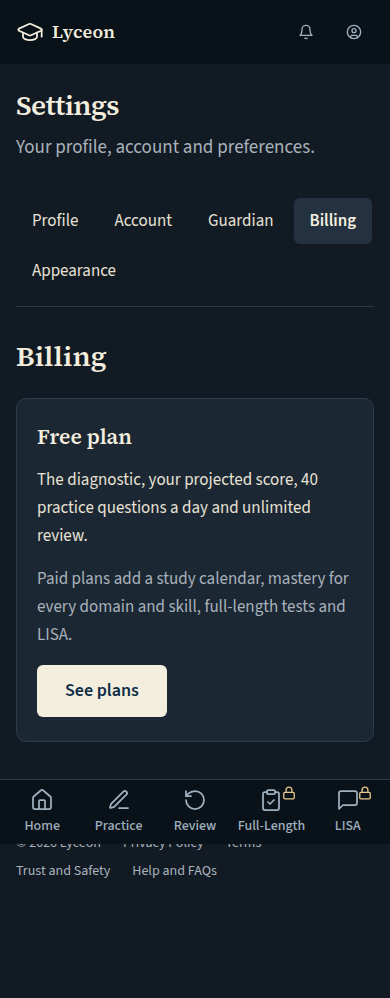
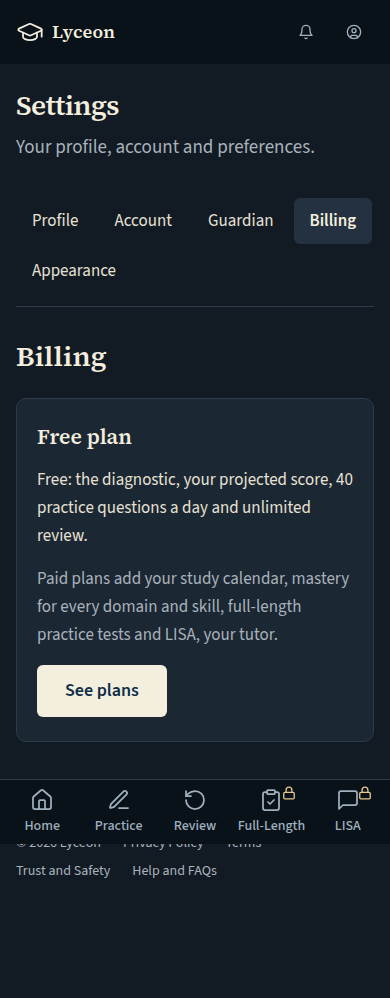
UI-58 / OQ-61 (e): re-capture UI-58 (Billing free box in the approved wording)
settings-billing-free (desktop/390, light/dark) now shows the Help FAQ
sentences; 0px horizontal overflow on all 56 captures. The guardian-section
shots differ only by the harness's freshly minted link code.

Claude-Session: https://claude.ai/code/session_01DzryTvDS5m7fLVPUjsQYgR

Changed region(s): [[0.0923, 0.5591, 0.8923, 0.6523], [0.0923, 0.4659, 0.9231, 0.497]]

diff --git a/docs/plans/student-ui/evidence/wave5/UI-58/index.md b/docs/plans/student-ui/evidence/wave5/UI-58/index.md
@@ -1,6 +1,6 @@
 # UI-58 Settings (each section; paid self-billing, free, guardian-managed), Help, Notifications and the plans page (both NOT PROTOTYPED); light and dark, 1440 and 390
 
-Generated 2026-10-05T06:48:56.015Z by `pnpm exec tsx tests/e2e/student-harness/capture.ts UI-58` (see `tests/e2e/student-harness/README.md`). Built = a production build of the real client (`vite preview`, or the dev server with STUDENT_HARNESS_CLIENT=dev) against the student harness (real routers over a local Postgres built from this repo's migrations; personas seeded through the real practice routes). Prototype = the signed-off `docs/plans/student-ui/design/prototype/*.dc.html`, rendered locally.
+Generated 2026-10-05T09:38:51.803Z by `pnpm exec tsx tests/e2e/student-harness/capture.ts UI-58` (see `tests/e2e/student-harness/README.md`). Built = a production build of the real client (`vite preview`, or the dev server with STUDENT_HARNESS_CLIENT=dev) against the student harness (real routers over a local Postgres built from this repo's migrations; personas seeded through the real practice routes). Prototype = the signed-off `docs/plans/student-ui/design/prototype/*.dc.html`, rendered locally.
 
 Conditions, read before comparing:
 - Viewport screenshots (not full page) unless the shot says full page: desktop 1440x900, phone 390x844.
@@ -56,7 +56,7 @@ Prototype: `Settings.dc.html` (Settings, plan = paid, Guardian clicked (the canv
 
 | Viewport | Theme (as rendered) | Built | Prototype |
 |---|---|---|---|
-| desktop | light | ![settings-guardian-paid desktop light](settings-guardian-paid--desktop--light--built.png)<br>`/profile`, 95 KB, horizontal overflow 0px | ![prototype light](proto--Settings--paid--light--guardian.png), 79 KB |
+| desktop | light | ![settings-guardian-paid desktop light](settings-guardian-paid--desktop--light--built.png)<br>`/profile`, 96 KB, horizontal overflow 0px | ![prototype light](proto--Settings--paid--light--guardian.png), 79 KB |
 | desktop | dark | ![settings-guardian-paid desktop dark](settings-guardian-paid--desktop--dark--built.png)<br>`/profile`, 98 KB, horizontal overflow 0px | ![prototype dark](proto--Settings--paid--dark--guardian.png), 80 KB |
 | mobile | light | ![settings-guardian-paid mobile light](settings-guardian-paid--mobile--light--built.png)<br>`/profile`, 101 KB, horizontal overflow 0px | ![prototype light](proto--Settings--paid--light--guardian.png)<br>desktop prototype (no phone layout), 79 KB |
 | mobile | dark | ![settings-guardian-paid mobile dark](settings-guardian-paid--mobile--dark--built.png)<br>`/profile`, 103 KB, horizontal overflow 0px | ![prototype dark](proto--Settings--paid--dark--guardian.png)<br>desktop prototype (no phone layout), 80 KB |
@@ -69,7 +69,7 @@ Prototype: `Settings.dc.html` (Settings, plan = free, Guardian clicked); clicked
 
 | Viewport | Theme (as rendered) | Built | Prototype |
 |---|---|---|---|
-| desktop | light | ![settings-guardian-free desktop light](settings-guardian-free--desktop--light--built.png)<br>`/profile`, 102 KB, horizontal overflow 0px | ![prototype light](proto--Settings--free--light--guardian.png), 80 KB |
+| desktop | light | ![settings-guardian-free desktop light](settings-guardian-free--desktop--light--built.png)<br>`/profile`, 101 KB, horizontal overflow 0px | ![prototype light](proto--Settings--free--light--guardian.png), 80 KB |
 | desktop | dark | ![settings-guardian-free desktop dark](settings-guardian-free--desktop--dark--built.png)<br>`/profile`, 104 KB, horizontal overflow 0px | ![prototype dark](proto--Settings--free--dark--guardian.png), 81 KB |
 | mobile | light | ![settings-guardian-free mobile light](settings-guardian-free--mobile--light--built.png)<br>`/profile`, 97 KB, horizontal overflow 0px | ![prototype light](proto--Settings--free--light--guardian.png)<br>desktop prototype (no phone layout), 80 KB |
 | mobile | dark | ![settings-guardian-free mobile dark](settings-guardian-free--mobile--dark--built.png)<br>`/profile`, 99 KB, horizontal overflow 0px | ![prototype dark](proto--Settings--free--dark--guardian.png)<br>desktop prototype (no phone layout), 81 KB |
@@ -95,10 +95,10 @@ Prototype: `Settings.dc.html` (Settings, plan = free, Billing clicked); clicked:
 
 | Viewport | Theme (as rendered) | Built | Prototype |
 |---|---|---|---|
-| desktop | light | ![settings-billing-free desktop light](settings-billing-free--desktop--light--built.png)<br>`/profile`, 66 KB, horizontal overflow 0px | ![prototype light](proto--Settings--free--light--billing.png), 65 KB |
-| desktop | dark | ![settings-billing-free desktop dark](settings-billing-free--desktop--dark--built.png)<br>`/profile`, 67 KB, horizontal overflow 0px | ![prototype dark](proto--Settings--free--dark--billing.png), 66 KB |
-| mobile | light | ![settings-billing-free mobile light](settings-billing-free--mobile--light--built.png)<br>`/profile`, 53 KB, horizontal overflow 0px | ![prototype light](proto--Settings--free--light--billing.png)<br>desktop prototype (no phone layout), 65 KB |
-| mobile | dark | ![settings-billing-free mobile dark](settings-billing-free--mobile--dark--built.png)<br>`/profile`, 53 KB, horizontal overflow 0px | ![prototype dark](proto--Settings--free--dark--billing.png)<br>desktop prototype (no phone layout), 66 KB |
+| desktop | light | ![settings-billing-free desktop light](settings-billing-free--desktop--light--built.png)<br>`/profile`, 69 KB, horizontal overflow 0px | ![prototype light](proto--Settings--free--light--billing.png), 65 KB |
+| desktop | dark | ![settings-billing-free desktop dark](settings-billing-free--desktop--dark--built.png)<br>`/profile`, 70 KB, horizontal overflow 0px | ![prototype dark](proto--Settings--free--dark--billing.png), 66 KB |
+| mobile | light | ![settings-billing-free mobile light](settings-billing-free--mobile--light--built.png)<br>`/profile`, 55 KB, horizontal overflow 0px | ![prototype light](proto--Settings--free--light--billing.png)<br>desktop prototype (no phone layout), 65 KB |
+| mobile | dark | ![settings-billing-free mobile dark](settings-billing-free--mobile--dark--built.png)<br>`/profile`, 56 KB, horizontal overflow 0px | ![prototype dark](proto--Settings--free--dark--billing.png)<br>desktop prototype (no phone layout), 66 KB |
 
 ## Settings → Billing, guardian-managed (F-40): 'Managed by your guardian', no button
 
@@ -199,6 +199,6 @@ Prototype: none. NOT PROTOTYPED (DESIGN.md §4): built to the shell spec; these 
 
 ## Run facts
 
-- Seeded ids: `{"free":{"completedPracticeSessionId":"72ff444f-96a3-4163-a0a5-6348a0b7f396","openPracticeSessionId":"d8edb6e5-2d4d-4519-bea1-3ccd1d0bc1e4","openReviewSessionId":null,"diagnosticSessionId":null,"scoredExamSessionId":null,"inProgressExamSessionId":null,"lisaConversationId":null,"answered":13},"paid":{"completedPracticeSessionId":"e27ec041-868e-4752-ad0f-eb8ae7a48110","openPracticeSessionId":"bad9bfe8-3159-45f0-9363-02bb57159e19","openReviewSessionId":null,"diagnosticSessionId":"555a4636-abff-4ce9-8579-e14a8a8e4fba","scoredExamSessionId":null,"inProgressExamSessionId":null,"lisaConversationId":null,"answered":53}}`
+- Seeded ids: `{"free":{"completedPracticeSessionId":"90a1521a-30bb-461d-aa5d-85ef264db077","openPracticeSessionId":"57adade2-74bd-4798-b596-74d5821aaf56","openReviewSessionId":null,"diagnosticSessionId":null,"scoredExamSessionId":null,"inProgressExamSessionId":null,"lisaConversationId":null,"answered":13},"paid":{"completedPracticeSessionId":"0da9da5b-65ec-4cf8-a1c7-acbbcf6b9f50","openPracticeSessionId":"ef5c72c6-6b48-44cf-b7fb-dca87f2af63d","openReviewSessionId":null,"diagnosticSessionId":"7e330493-0a27-40d6-ac1a-8cc64298beb4","scoredExamSessionId":null,"inProgressExamSessionId":null,"lisaConversationId":null,"answered":53}}`
 - Endpoints the pages asked for that the harness does not serve (answered 404): none
 - External hosts blocked: `fonts.googleapis.com`
